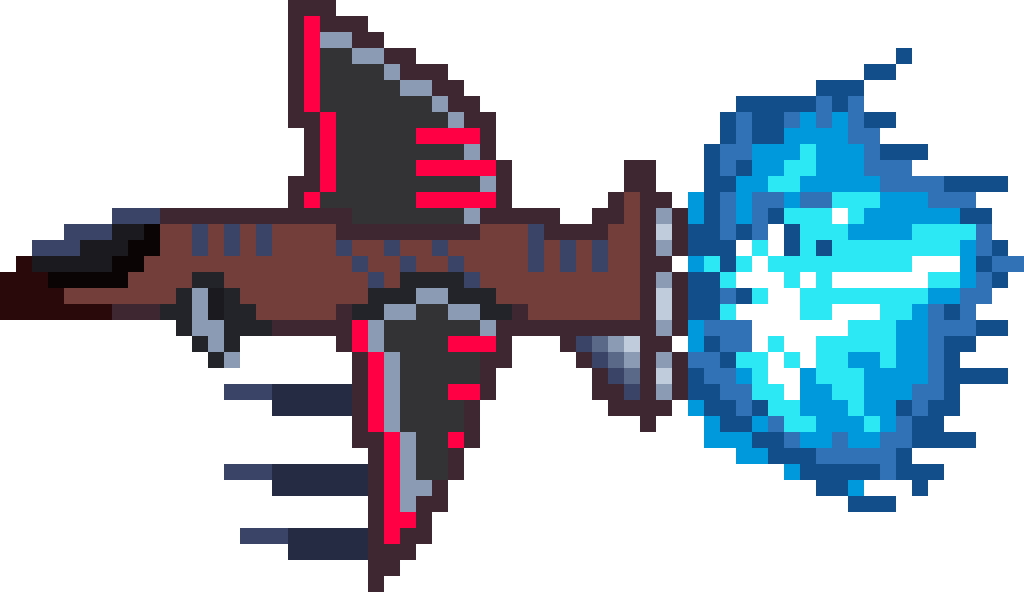
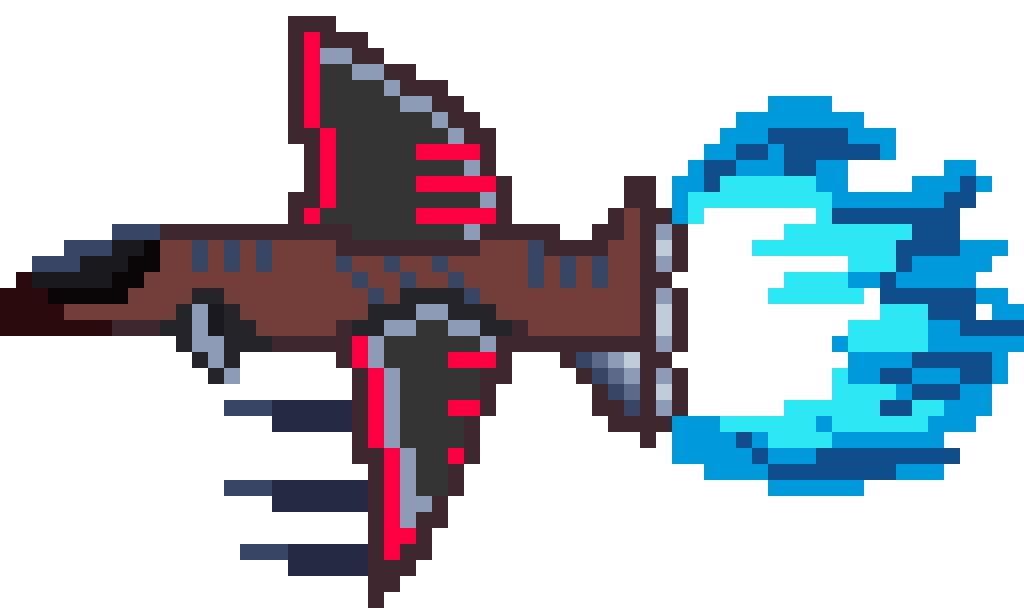
исправил баг

diff --git a/mainscreen.py b/mainscreen.py
@@ -59,7 +59,7 @@ def newenemy():
 class Bullet(pygame.sprite.Sprite):
     def __init__(self, x, y):
         pygame.sprite.Sprite.__init__(self)
-        self.image = pygame.transform.scale(bullet_img, (80, 40))
+        self.image = pygame.transform.scale(bullet_img, (50, 20))
         self.image.set_colorkey(BLACK)
         self.rect = self.image.get_rect()
         self.rect.bottom = y
@@ -92,7 +92,7 @@ class enemy(pygame.sprite.Sprite):
 class Player(pygame.sprite.Sprite):
     def __init__(self):
         pygame.sprite.Sprite.__init__(self)
-        self.image = pygame.transform.scale(player_img, (160, 100))
+        self.image = pygame.transform.scale(player_img, (160, 90))
         self.image.set_colorkey(BLACK)
         self.rect = self.image.get_rect()
         self.rect.centerx = WIDTH - (WIDTH - 100)
